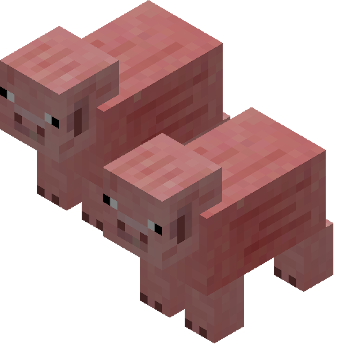
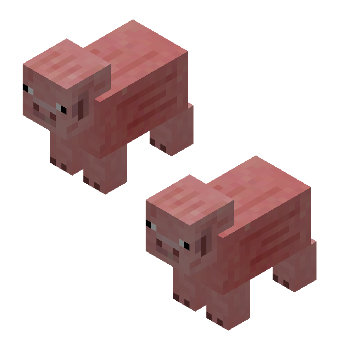
Info panel in progress

diff --git a/evolutiongame/src/main/pl/edu/agh/cs/WorldMap.java b/evolutiongame/src/main/pl/edu/agh/cs/WorldMap.java
@@ -15,12 +15,12 @@ public class WorldMap implements IWorldMap, IPositionChangeObserver{
     public final Integer height;
     public final Double startEnergy;
     public final Double moveEnergy = 2.0;
-    public final Double plantEnergy = 100.0;
+    public final Double plantEnergy = 10.0;
     public final Double jungleRatio = 0.5;
     public MapVisualizer visualizer;
 
     public WorldMap(Vector2D upperRight){
-        this(upperRight, 10.0);
+        this(upperRight, 60.0);
     }
 
     public WorldMap(Vector2D upperRight,Double startEnergy){
@@ -210,7 +210,8 @@ public class WorldMap implements IWorldMap, IPositionChangeObserver{
         }
     }
 
-    public void clearDeadAnimals(){
+    public int clearDeadAnimals(){
+        int killCount = 0;
         List<Animal> animalsListIterate = new ArrayList<>();
         animalsListIterate.addAll(animalsList);
         int i = 0;
@@ -219,13 +220,14 @@ public class WorldMap implements IWorldMap, IPositionChangeObserver{
                 List<Animal> tmp = this.animalsMap.get(animal.getPosition());
                 tmp.remove(animal);
                 animalsList.remove(i);
+                killCount++;
             }else{
                 i++;
             }
 
         }
 
-
+        return killCount;
     }
 
     public void eatAll(){
@@ -260,7 +262,7 @@ public class WorldMap implements IWorldMap, IPositionChangeObserver{
         }
     }
 
-    public void procreateAll(){
+    public int procreateAll(){
         List<Animal> childList = new ArrayList<>();
         Set<Vector2D> hasPositionProcreated = new HashSet<>();
         for (Animal animal : animalsList){
@@ -274,7 +276,11 @@ public class WorldMap implements IWorldMap, IPositionChangeObserver{
                 hasPositionProcreated.add(animal.getPosition());
                 if (father.canProcreate() && mother.canProcreate()){
                     System.out.print(animal.getPosition() + " born: ");
-                    childList.add(father.procreate(mother));
+                    Animal child = father.procreate(mother);
+                    if (child != null){
+                        childList.add(child);
+                    }
+
                 }
             }
         }
@@ -282,6 +288,7 @@ public class WorldMap implements IWorldMap, IPositionChangeObserver{
             this.place(animal);
             System.out.println(animal.getPosition() + " has been born");
         }
+        return childList.size();
     }
 
     public boolean isPositionJungle(Vector2D position){

diff --git a/evolutiongame/src/main/pl/edu/agh/cs/Simulation.java b/evolutiongame/src/main/pl/edu/agh/cs/Simulation.java
@@ -12,7 +12,7 @@ import java.io.IOException;
 public class Simulation {
     WorldMap map;
     int day;
-
+    int numberOfAnimals = 6;
 
     public Simulation(Vector2D upperRight){
         this.map = new WorldMap(upperRight);
@@ -24,11 +24,11 @@ public class Simulation {
         this.day = 0;
     }
     public void nextDay(){
-        map.clearDeadAnimals();
+        this.numberOfAnimals -= map.clearDeadAnimals();
         map.turnAllAnimals();
         map.moveAllAnimals();
         map.eatAll();
-        map.procreateAll();
+        this.numberOfAnimals += map.procreateAll();
         map.generateGrass();
         day++;
     }
@@ -36,13 +36,21 @@ public class Simulation {
         System.out.println("Day: " + day);
         System.out.println(map.drawMap());
         JFrame frame = new JFrame();
-        frame.setSize(1000,1000);
+        frame.setSize(500,500);
         frame.setLocationRelativeTo(null);
         frame.setDefaultCloseOperation(JFrame.EXIT_ON_CLOSE);
         RenderPanel panel = new RenderPanel(map, frame);
         frame.add(panel);
         frame.setVisible(true);
         java.util.concurrent.TimeUnit.SECONDS.sleep(1);
+        JFrame infoPanel = new JFrame();
+        JTextField pigsCount = new JTextField("Number of animals: " + this.numberOfAnimals);
+        JTextField dayCount = new JTextField("Day: " + this.day);
+        infoPanel.add(dayCount);
+        infoPanel.add(pigsCount);
+
+        infoPanel.setVisible(true);
+
 
         for (int i = 1; i <= numberOfDays; i++){
             this.nextDay();
@@ -50,7 +58,10 @@ public class Simulation {
             System.out.println("Day: " + day);
             System.out.println(map.drawMap());
             panel.repaint();
-            java.util.concurrent.TimeUnit.SECONDS.sleep(1);
+            System.out.println(this.numberOfAnimals);
+            pigsCount.setText("Number of animals: " + this.numberOfAnimals);
+            dayCount.setText("Day: " + this.day);
+            java.util.concurrent.TimeUnit.MILLISECONDS.sleep(50);
         }
     }
 }

diff --git a/evolutiongame/src/main/pl/edu/agh/cs/Animal.java b/evolutiongame/src/main/pl/edu/agh/cs/Animal.java
@@ -135,11 +135,21 @@ public class Animal {
 
     public Animal procreate(Animal other){
         //position
+        Vector2D childPosition = null;
         Random random = new Random();
         int[] table = new int[]{-1,1};
-        int childX = this.position.x + table[random.nextInt(2)];
-        int childY = this.position.y + table[random.nextInt(2)];
-        Vector2D childPosition = map.betterPosition(new Vector2D(childX, childY));
+        for (int i = 0; i < 8; i++){
+            int childX = this.position.x + table[random.nextInt(2)];
+            int childY = this.position.y + table[random.nextInt(2)];
+            childPosition = map.betterPosition(new Vector2D(childX, childY));
+            if (map.objectAt(childPosition) == null){
+                break;
+            }
+            if (i == 7){
+                return null;
+            }
+        }
+
 
         //energy
         double childEnergy = this.energy / 4 + other.energy / 4;

diff --git a/evolutiongame/src/main/pl/edu/agh/cs/World.java b/evolutiongame/src/main/pl/edu/agh/cs/World.java
@@ -23,7 +23,7 @@ public class World {
         map.place(new Animal(map, new Vector2D(2, 0)));
         map.place(new Animal(map,  new Vector2D(0,5)));
         Simulation sim = new Simulation(map);
-        sim.startSimulation(100);
+        sim.startSimulation(1000);
         /*System.out.println(map.drawMap());
         JFrame frame = new JFrame();
         frame.setSize(1000,1000);
